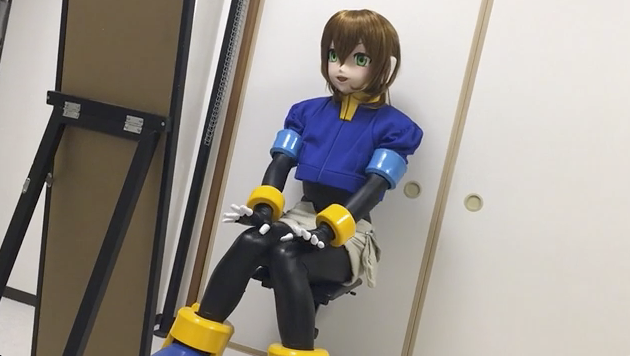
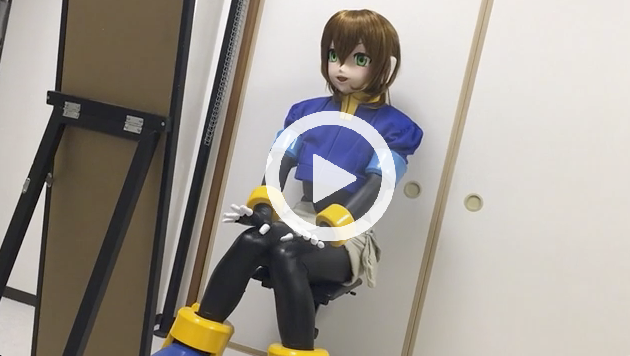
preview overlay and replaces 1.html

Changed region(s): [[0.3921, 0.2781, 0.6333, 0.7107]]

diff --git a/etc/e-rusan/index.html b/etc/e-rusan/index.html
@@ -1,8 +1,45 @@
-<!DOCTYPE html>
-<html>
+<!DOCTYPE HTML>
+<html lang="en">
 <head>
-    <meta http-equiv="refresh" content="0;url=1.html">
+<meta charset="UTF-8">
+<meta name="viewport" content="width=device-width, initial-scale=1.0">
+
+<title>わたしがエールさん...</title>
+<meta name="keywords" content="わたしがエールさん...">
+<meta name="description" content="わたしがエールさん...">
+
+<meta property="og:title" content="わたしがエールさん...">
+<meta property="og:url" content="https://me.cocoacirc.us/etc/e-rusan/">
+<meta property="og:image" content="https://me.cocoacirc.us/etc/e-rusan/1.png">
+<meta property="og:description" content="わたしがエールさん...">
+<meta property="og:type" content="video.movie">
+
+<meta name="twitter:card" content="summary">
+<meta property="twitter:title" content="わたしがエールさん...">
+<meta name="twitter:image" content="https://me.cocoacirc.us/etc/e-rusan/1.png">
+<meta property="twitter:description" content="わたしがエールさん...">
+
+<style>
+    body, html {
+        margin: 0;
+        padding: 0;
+        height: 100%;
+        overflow: hidden;
+    }
+    video {
+        position: absolute;
+        top: 0;
+        left: 0;
+        width: 100%;
+        height: 100%;
+        object-fit: contain;
+    }
+</style>
 </head>
 <body>
+    <video controls autoplay loop>
+        <source src="1.mp4" type="video/mp4">
+        Your browser does not support the video tag.
+    </video>
 </body>
 </html>
